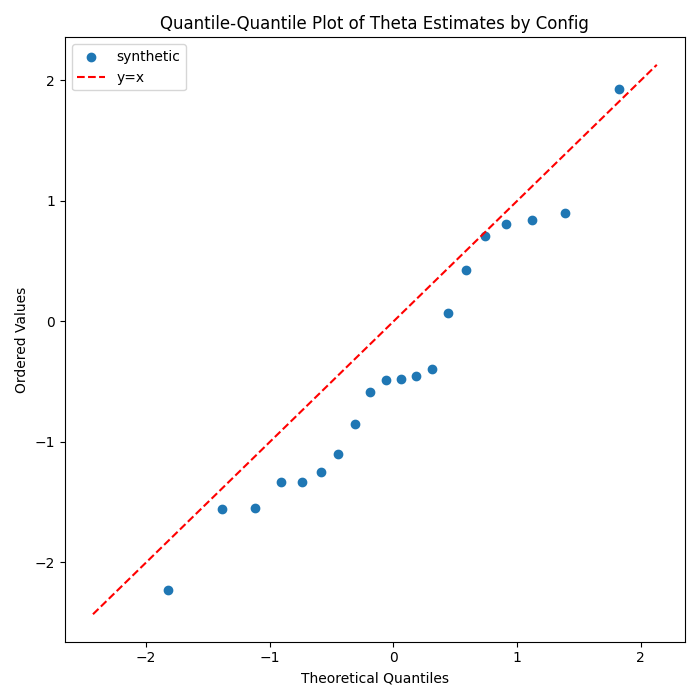
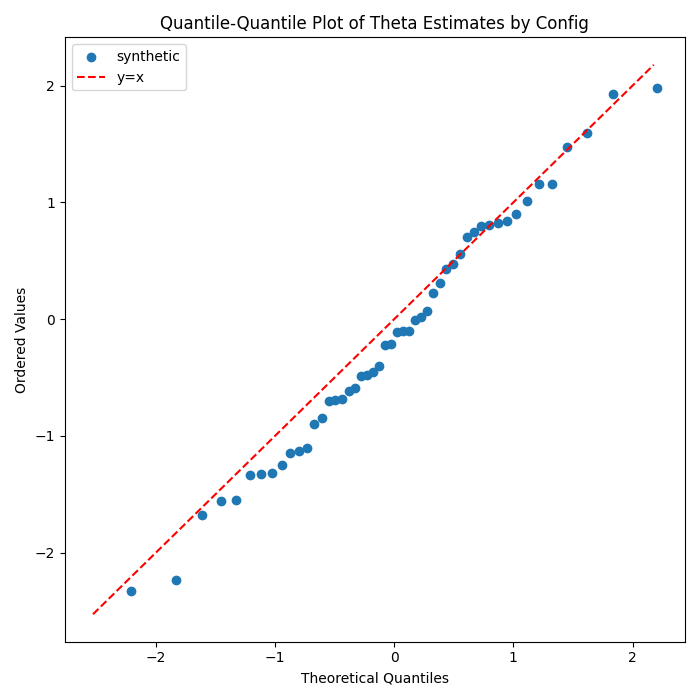
DGP1

diff --git a/DGP_1.py b/DGP_1.py
@@ -24,6 +24,17 @@ def load_twins_X(file_path, n_samples=500, seed=42):
 
     return X_scaled
 
+def manual_1_dgp(n_samples=800, seed=60):
+    np.random.seed(seed)
+    d = 5  # 设定维度：兴趣度、容忍度 + 3个背景偏好
+    X = np.random.normal(0, 1, size=(n_samples, d))
+
+    # 标准化特征
+    scaler = StandardScaler()
+    X_scaled = scaler.fit_transform(X)
+
+    return X_scaled
+
 
 def generate_controlled_dgp(X_real: np.ndarray,
                              true_effect: float = 1.0,
@@ -46,18 +57,11 @@ def generate_controlled_dgp(X_real: np.ndarray,
     n, d = X_real.shape
     X = X_real.copy()
 
-
-
     # 倾向评分控制：生成 D
     gamma = np.random.normal(loc=0.0, scale=skewness_level, size=d)
     logits = X @ gamma
     p_score = expit(logits) # 使用稳定 sigmoid
     p_score = np.clip(p_score, 1e-6, 1 - 1e-6) # 避免出现 0/1 导致 binomial 报错
-    # 强制调试输出
-    # print("倾向得分分布: min =", p_score.min(), ", max =", p_score.max())
-    # print("X 均值范围:", X.mean(axis=0).min(), "-", X.mean(axis=0).max())
-    # print("X 方差范围:", X.std(axis=0).min(), "-", X.std(axis=0).max())
-    # print("logits 范围:", logits.min(), "-", logits.max())
 
     D = np.random.binomial(1, p_score)
     # 如果 D 只有一个值，则重新采样 gamma 或报错
@@ -90,5 +94,57 @@ def generate_controlled_dgp(X_real: np.ndarray,
     #  交互项控制：加入 D·X₀ 项 ： add D·X₀
     if interaction:
         Y += 0.5 * D * X[:, 0]
+
+    return X, D, Y
+
+def generate_controlled_dgp_1(X_real: np.ndarray,
+                             true_effect: float = 1.0,
+                             noise_std: float = 1.0,
+                             nonlinearity: bool = False,
+                             interaction: bool = False,
+                             skewness_level: float = 0.3,
+                             sparse_beta: bool = False, # 保留参数用于兼容main代码运行，无意义
+                             heterogeneous: bool = False,
+                             random_seed: int = 42):
+
+    # 将原结构替换为基于“兴趣+容忍度”机制的人工行为建模。
+    # X_real 不再来自真实数据，而是通过 manual_1_dgp 构造
+
+    np.random.seed(random_seed)
+    n, d = X_real.shape
+    X = X_real.copy()
+
+    # 映射变量
+    interest = X[:, 0]      # 兴趣度
+    tolerance = X[:, 1]     # 广告容忍度
+    background = X[:, 2:5]  # 3个无关但有影响的背景变量
+
+    # 倾向得分：决定是否点击广告
+    logits = 1.5 * interest + 1.0 * tolerance
+    p_score = expit(logits)
+    p_score = np.clip(p_score, 1e-6, 1 - 1e-6)
+    D = np.random.binomial(1, p_score)
+
+    # 背景变量已定义，暂裁去稀疏性 delete sparse_beta
+
+    # 非线性
+    if nonlinearity:
+        f_X = np.sin(background[:, 0]) + background[:, 1] ** 2
+    else:
+        f_X = background @ np.random.uniform(-1, 1, size=background.shape[1])
+
+    # 异质或固定因果效应
+    if heterogeneous:
+        theta = true_effect + 0.4 * interest
+    else:
+        theta = true_effect
+
+    # 构造结果变量 Y
+    eps = np.random.normal(0, noise_std, size=n)
+    Y = theta * D + f_X + eps
+
+    # 交互结构 D·X0
+    if interaction:
+        Y += 0.5 * D * interest
 
     return X, D, Y

diff --git a/main_4.py b/main_4.py
@@ -9,20 +9,22 @@ import gc
 from collections import defaultdict
 
 
-from DGP_1 import load_twins_X, generate_controlled_dgp
+from DGP_1 import load_twins_X, generate_controlled_dgp, manual_1_dgp, generate_controlled_dgp_1
 from DML_2 import run_doubleml_plr_rf
 from EVAL_3 import evaluate_dml_results
 
 # ------------------------ 单次运行函数 ------------------------
 # -------------------- Single-run function -------------------
-def run_single_setting(X_real, config_dict):
+def run_single_setting(X_real, config_dict,USE_MANUAL=False):
     # config_dict = {k: v for k, v in config_dict.items() if
     #                k in ['nonlinearity', 'interaction', 'sparse_beta', 'skewness_level', 'heterogeneous', 'true_effect',
     #                      'noise_std', 'random_seed']}
     # 直接删除 config_name 字段
     dgp_config  = {k: v for k, v in config_dict.items() if k != 'config_name'}
-
-    X, D, Y = generate_controlled_dgp(X_real=X_real, **dgp_config )
+    if USE_MANUAL == True:
+        X, D, Y = generate_controlled_dgp_1(X_real=X_real, **dgp_config)
+    else:
+        X, D, Y = generate_controlled_dgp(X_real=X_real, **dgp_config)
     result = run_doubleml_plr_rf(X, D, Y)
     return result
 
@@ -149,18 +151,18 @@ def get_experiment_configs():
     return merged_configs
 
 # ------------------------ 实验执行函数 execution function------------------------
-def run_experiments(X_real, configs):
+def run_experiments(X_real, configs,USE_MANUAL):
     all_summary = []
     all_estimates = []  # 用于绘制QQ图
 
     for config in configs:
         estimates = []
         std_errors = []
-        for run in range(20):
+        for run in range(50):
             try:
                 config_run = copy.deepcopy(config)
                 config_run['random_seed'] = config['random_seed'] + run
-                result = run_single_setting(X_real, config_run)
+                result = run_single_setting(X_real, config_run,USE_MANUAL)
                 estimates.append(result['theta_hat'])
                 std_errors.append(result['se'])
             except Exception as e:
@@ -208,14 +210,18 @@ def main():
     save_dir = f"exp_{exp_id}"
     os.makedirs(save_dir, exist_ok=True)
 
-    # 载入数据 & 配置
-    X_real = load_twins_X('./assets/twins/twin_pairs_X_3years_samesex.csv', n_samples=800, seed=60)
+    USE_MANUAL = True  # 切换数据加载模式
+    # 载入数据
+    if USE_MANUAL:
+        X_real = manual_1_dgp(n_samples=800, seed=60)
+    else:
+        X_real = load_twins_X('./assets/twins/twin_pairs_X_3years_samesex.csv', n_samples=800, seed=60)
+    # 载入配置
     configs = get_experiment_configs()
 
     # 运行实验
-    df, all_estimates = run_experiments(X_real, configs)
+    df, all_estimates = run_experiments(X_real, configs, USE_MANUAL)
     df.to_csv(os.path.join(save_dir, "dml_experiment_summary.csv"), index=False)
-
 
     # 可视化
     plot_relative_differences(df, save_dir)

diff --git a/test.py b/test.py
@@ -4,7 +4,7 @@ from EVAL_3 import evaluate_dml_results
 from main_4 import plot_qq_distribution
 import os
 
-def run_synthetic_qq_test(n=500, d=5, n_runs=20, true_theta=1.0, save_dir="test_qq_output"):
+def run_synthetic_qq_test(n=500, d=5, n_runs=50, true_theta=1.0, save_dir="test_qq_output"):
     os.makedirs(save_dir, exist_ok=True)
     all_estimates = []
     np.random.seed(0)
